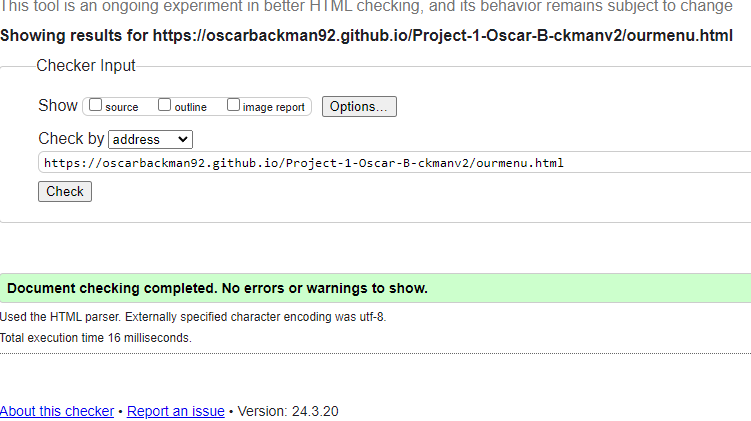
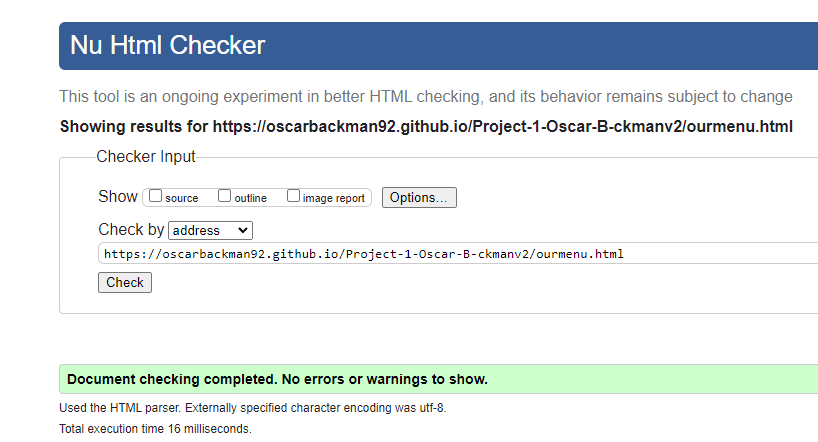
new validator testing for HTML and CSS. add thank you validation

diff --git a/README.md b/README.md
@@ -145,11 +145,19 @@ The following git commands were used throughout development to push code to the 
 
 ### Validator
 
+* HTML
+  * No errors were returned when passing through the official [W3C validator](https://validator.w3.org)
+
 ![index.html-validation](assets/readme_images/index_validation.png)
 
-![our-menu.html-validation](assets/readme_images/ourmenu_validation.png)
+![our_menu.html-validation](assets/readme_images/ourmenu_validation.png)
 
-![about-us.html-validation](assets/readme_images/aboutus_validation.png)
+![about_us.html-validation](assets/readme_images/aboutus_validation.png)
+
+![thank_you](assets/readme_images/thank_you_validation.png)
+
+* CSS
+  * No errors were found when passing through the official [(Jigsaw) validator](https://jigsaw.w3.org)
 
 ![css-validation](assets/readme_images/css_validation.png)
 
